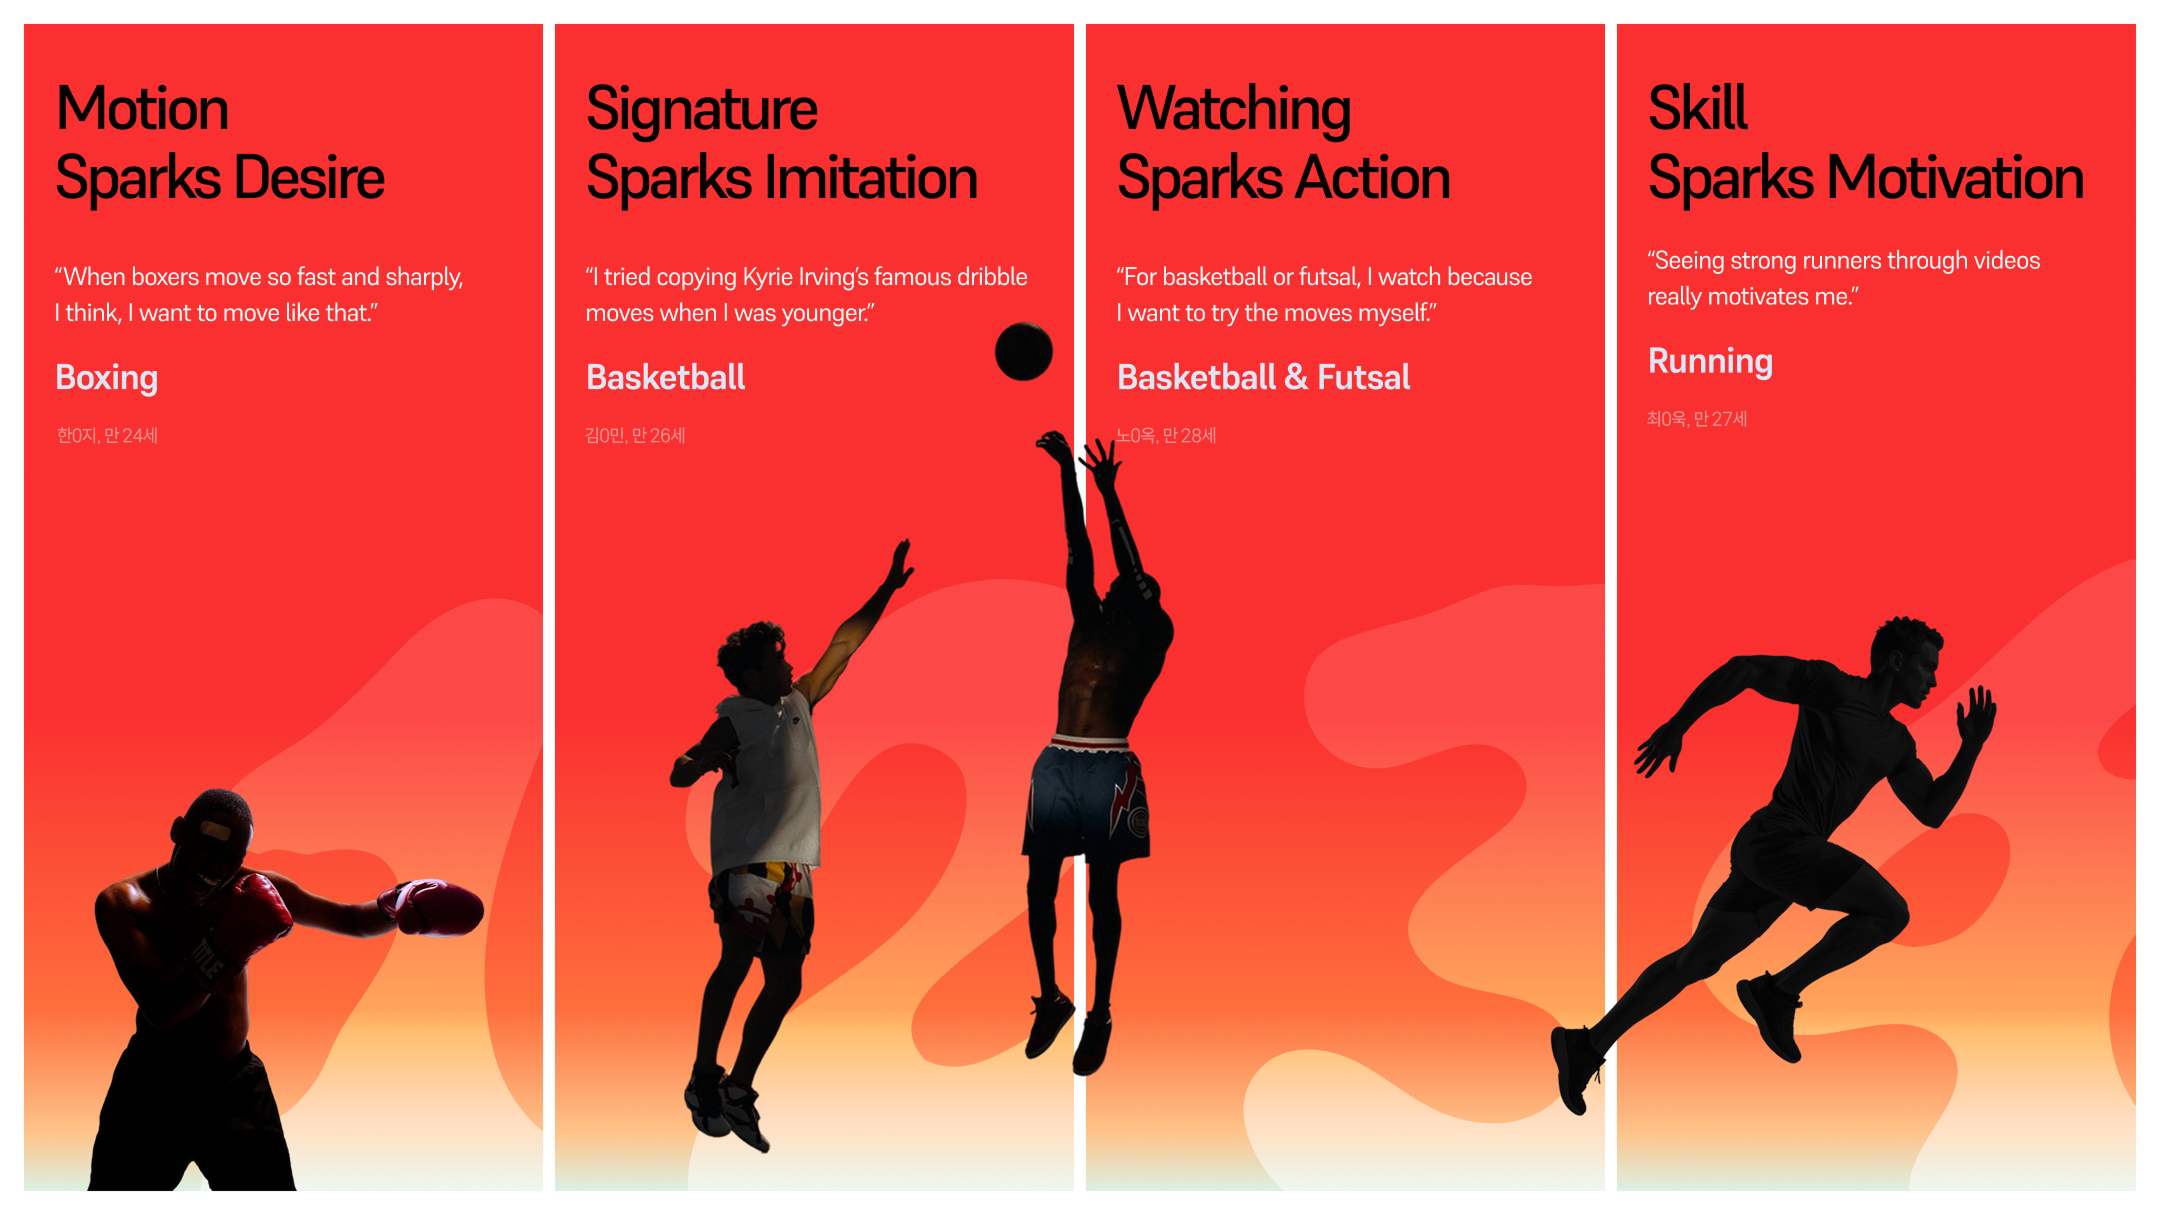
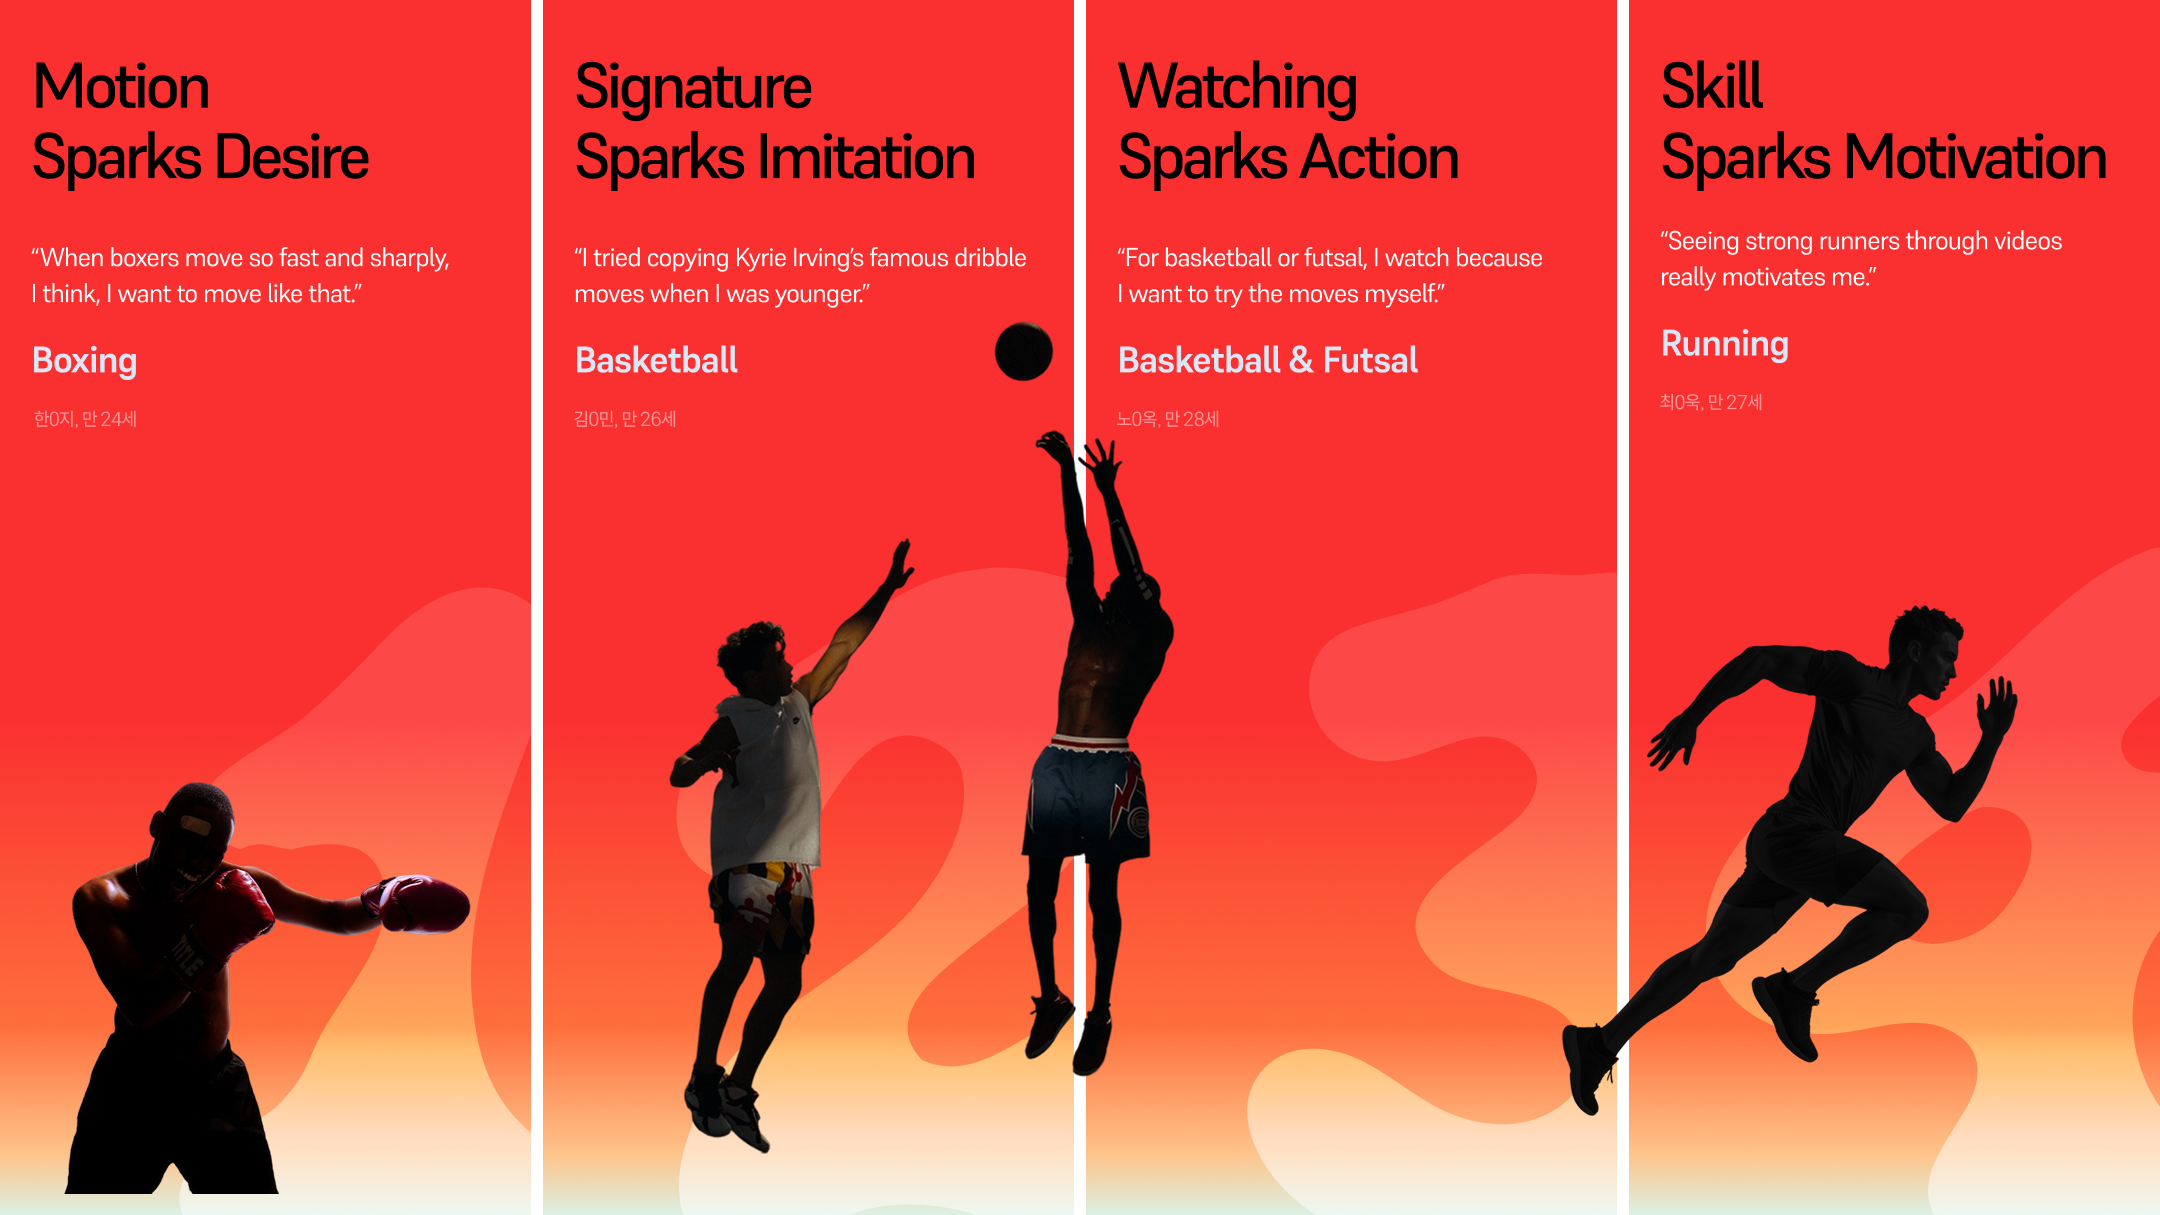
sec-02 모바일 이미지 라운딩 수정
부모 overflow:hidden 라운드 클립이 fade-stack(애니 레이어) 형제 때문에
position:absolute 자식(m-only)에 적용 안 됨 → 이미지 자체에 border-radius
직접 부여(모든 히어로 카드에 안정 적용).

diff --git a/index.html b/index.html
@@ -448,7 +448,8 @@
     /* two-column pages → rounded 16:9 image card on top, text below (both scroll together).
        children absolutely fill so the 16:9 box wins (img height can't dictate it) */
     .page-media{width:auto;height:auto;aspect-ratio:16/9;flex:none;margin:4.5vw 5vw 0;position:relative;border-radius:5vw;overflow:hidden}
-    .page-media img,.page-media .fade-stack{position:absolute;inset:0;width:100%;height:100%;border-radius:0}
+    /* radius on the images themselves — parent overflow-clip can miss position:absolute children */
+    .page-media img,.page-media .fade-stack{position:absolute;inset:0;width:100%;height:100%;border-radius:5vw}
     .page-media .fade-stack{display:none}   /* sec-02: swap the carousel for the single mobile composite */
     .page-media .m-only{display:block}
     .page-text{flex:none;height:auto;overflow:visible;padding:5vw 5vw 20vw}   /* bottom room clears the pager bar */

diff --git a/template.html b/template.html
@@ -448,7 +448,8 @@
     /* two-column pages → rounded 16:9 image card on top, text below (both scroll together).
        children absolutely fill so the 16:9 box wins (img height can't dictate it) */
     .page-media{width:auto;height:auto;aspect-ratio:16/9;flex:none;margin:4.5vw 5vw 0;position:relative;border-radius:5vw;overflow:hidden}
-    .page-media img,.page-media .fade-stack{position:absolute;inset:0;width:100%;height:100%;border-radius:0}
+    /* radius on the images themselves — parent overflow-clip can miss position:absolute children */
+    .page-media img,.page-media .fade-stack{position:absolute;inset:0;width:100%;height:100%;border-radius:5vw}
     .page-media .fade-stack{display:none}   /* sec-02: swap the carousel for the single mobile composite */
     .page-media .m-only{display:block}
     .page-text{flex:none;height:auto;overflow:visible;padding:5vw 5vw 20vw}   /* bottom room clears the pager bar */